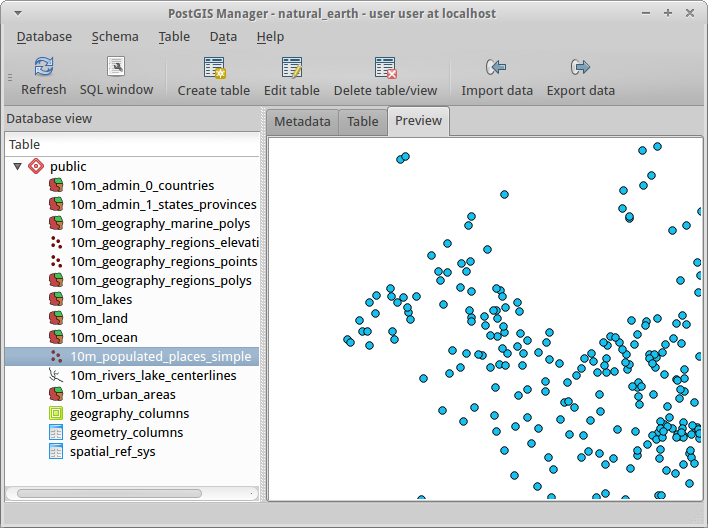
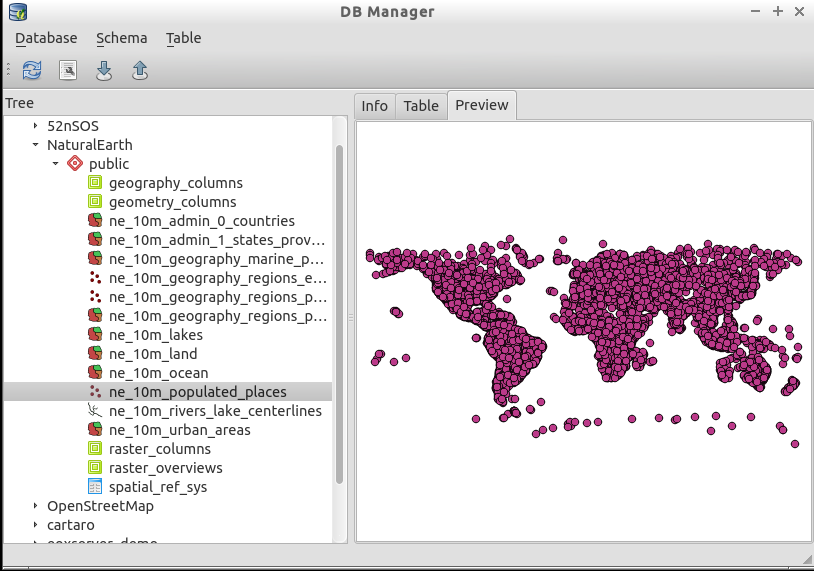
QGIS DB manager is no plugin anymore

diff --git a/en/quickstart/postgis_quickstart.rst b/en/quickstart/postgis_quickstart.rst
@@ -131,7 +131,7 @@ way of switching within the ``psql`` command line:
 You should see an informational message, and the prompt will change to show that you are now
 connected to the ``demo`` database. 
 
-Next, add PostGIS 2.0:
+Next, add PostGIS extension:
 
 ::
 
@@ -155,7 +155,7 @@ on valid spatial reference systems, and we can use some SQL to have a quick look
 
 ::
 
-  demo=# SELECT srid,auth_name,proj4text FROM spatial_ref_sys LIMIT 10;
+  demo=# SELECT srid, auth_name, proj4text FROM spatial_ref_sys LIMIT 10;
 
    srid | auth_name |          proj4text                                            
   ------+-----------+--------------------------------------
@@ -269,7 +269,7 @@ assuming a spherical earth?
 
 ::
 
- demo=# SELECT p1.name,p2.name,ST_Distance_Sphere(p1.geom,p2.geom) FROM cities AS p1, cities AS p2 WHERE p1.id > p2.id;
+ demo=# SELECT p1.name,p2.name,ST_DistanceSphere(p1.geom,p2.geom) FROM cities AS p1, cities AS p2 WHERE p1.id > p2.id;
        name       |      name       | st_distancesphere 
  -----------------+-----------------+--------------------
   London, Ontario | London, England |   5875766.85191657
@@ -316,10 +316,10 @@ Mapping
 ================================================================================
 
 To produce a map from PostGIS data, you need a client that can get at the data. Most 
-of the open source desktop GIS programs can do this - Quantum GIS, gvSIG, uDig for example. Now we'll
+of the open source desktop GIS programs can do this - QGIS, gvSIG, uDig for example. Now we'll
 show you how to make a map from Quantum GIS.
 
-Start Quantum GIS from the Desktop GIS menu and choose ``Add PostGIS layers`` from the layer menu. The
+Start QGIS from the Desktop GIS menu and choose ``Add PostGIS layers`` from the layer menu. The
 parameters for connecting to the OpenStreetMap data in PostGIS is already defined in the Connections
 drop-down menu. You can define new server connections here, and store the settings for easy
 recall. Click on Connections drop down menu and choose Natural Earth. Hit ``Edit`` if you want to see what those parameters are for Natural Earth, or just
@@ -357,28 +357,16 @@ Creating A Spatial Table The Easy Way
 Most of the OSGeo desktop tools have functions for importing spatial data in files, such as shapefiles,
 into PostGIS databases. Again we'll use QGIS to show this.
 
-Importing shapefiles to QGIS can be done via a handy DataBase Manager plugin. To set it up, go to the 
-Plugins menu, select ``Fetch Python Plugins``. QGIS will then get the latest list of plugins from the 
-repository (you will need a working internet connection for this). Then find the ``DB Manager``. It should be already installed (like in the picture), if not,
-hit the ``Install plugin`` button.
-
-.. image:: ../../images/screenshots/1024x768/postgis_getmanager.png
-  :scale: 50 %
-  :alt: Fetch PostGIS Manager Plugin
-  :align: center
-
-Now on the Database menu you should have a PostGIS Manager entry which gives you an option
-to start the manager. You can also click the PostGIS logo button (the elephant with the globe) on the toolbar.
+Importing shapefiles to QGIS can be done via the handy QGIS Database Manager. You find the manager in the menu. Go to ``Database -> DB Manager -> DB Manager``.
 
 Deploys the Postgis item, then the NaturalEarth item. It will then  connect to the Natural Earth database. Leave
 the password blank if it asks. In the public item, there is the list of the layers provided by the database. You'll see the main manager window. On the left you can select 
 tables from the database and use the tabs on the right find out about them. The Preview tab
-will show you a little map. Here I've selected the ne_10m_populated_places layer
-and zoomed in on a little island I know:
+will show you a little map.
 
 .. image:: ../../images/screenshots/1024x768/postgis_managerpreview.png
   :scale: 50 %
-  :alt: PostGIS Manager Preview
+  :alt: QGIS Manager Preview
   :align: center
 
 We will now use the DB Manager to import a shapefile into the database. We'll use
@@ -387,7 +375,7 @@ of the R statistics package add-ons.
 
 From the ``Table`` menu choose the ``Import layer/file`` option. 
 Hit the ``...`` button and browse to the ``sids.shp`` shapefile in the R ``maptools`` package
-(located in /usr/local/lib/R/site-library/):
+(located in /usr/lib/R/site-library/maptools/shapes/):
 
 .. image:: ../../images/screenshots/1024x768/postgis_browsedata.png
   :scale: 50 %
@@ -472,7 +460,8 @@ Furthermore we are going to sort the result, based on the computed rate. To do t
 on the text editor of the SQL Window):
 
 ::
-select name, 1000*sid74/bir74 as rate from sids order by rate;
+
+ select name, 1000*sid74/bir74 as rate from sids order by rate;
 
 Afterwards, you should press the green arrow button, pointing to the right (execute query).
 
